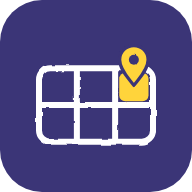
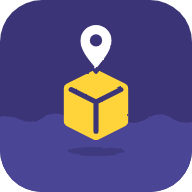
앱 아이콘: 울퉁불퉁한 땅 위에 뜬 노란 상자 + 흰 핀
Claude-Session: https://claude.ai/code/session_01YLzJYaCSw3RBoKxVptiud9

diff --git a/index.html b/index.html
@@ -5,8 +5,8 @@
     <meta name="viewport" content="width=device-width, initial-scale=1.0">
     <meta name="theme-color" content="#ffffff">
     <link rel="manifest" href="manifest.webmanifest">
-    <link rel="apple-touch-icon" href="apple-touch-icon.png?v=11">
-    <link rel="icon" type="image/png" sizes="192x192" href="icon-192.png?v=11">
+    <link rel="apple-touch-icon" href="apple-touch-icon.png?v=12">
+    <link rel="icon" type="image/png" sizes="192x192" href="icon-192.png?v=12">
     <meta name="mobile-web-app-capable" content="yes">
     <meta name="apple-mobile-web-app-capable" content="yes">
     <meta name="apple-mobile-web-app-title" content="창고여지도">
@@ -44,10 +44,10 @@
     <meta property="og:title" content="창고여지도 - 사진으로 만드는 매장 물품 지도">
     <meta property="og:description" content="선반 사진을 구역으로 나누고 물건을 적으면, 검색 한 번으로 위치를 찾아요.">
     <meta property="og:url" content="https://trafficjourney.github.io/udigo/">
-    <meta property="og:image" content="https://trafficjourney.github.io/udigo/og-image.png?v=18">
+    <meta property="og:image" content="https://trafficjourney.github.io/udigo/og-image.png?v=19">
     <meta property="og:image:width" content="1200">
     <meta property="og:image:height" content="630">
-    <meta property="og:image:alt" content="창고여지도: 사진으로 만드는 매장 물품 지도. 남색 바탕에 손으로 그린 둥근 수납장 칸 중 한 칸이 노랗게 칠해지고 노란 핀이 꽂힌 앱 아이콘, 아래에 '빨대 → 아래 칸 가운데' 검색 결과">
+    <meta property="og:image:alt" content="창고여지도: 사진으로 만드는 매장 물품 지도. 남색 하늘과 울퉁불퉁한 땅 위에 노란 상자가 떠 있고 위에서 흰 핀이 가리키는 앱 아이콘, 아래에 '빨대 → 아래 칸 가운데' 검색 결과">
     <meta property="og:locale" content="ko_KR">
     <meta name="twitter:card" content="summary_large_image">
     <style>
